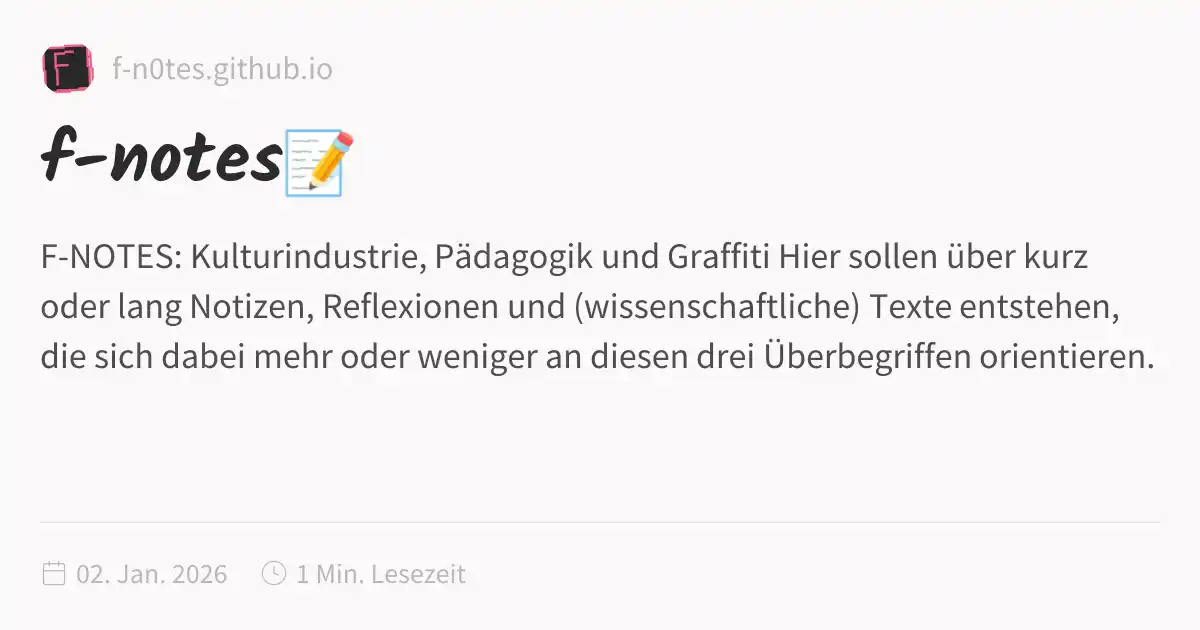
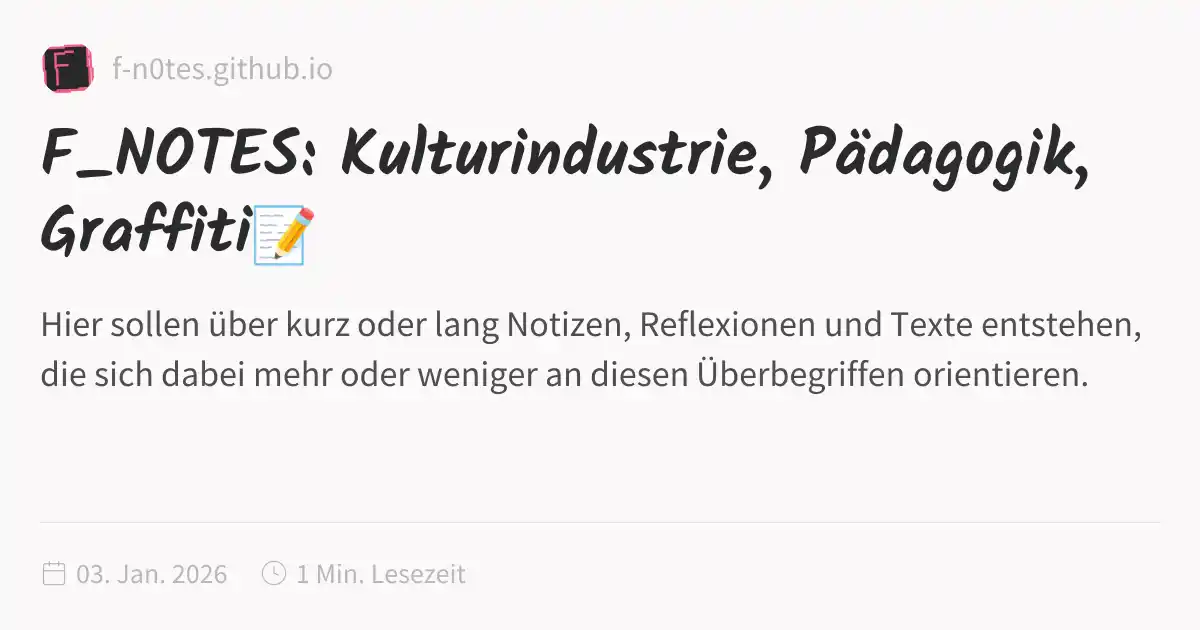
deploy: 53fa3e1e03e43d87d915ff147daec0a2459269f0

Changed region(s): [[0.0308, 0.181, 0.9558, 0.6333], [0.8942, 0.2714, 0.925, 0.3016]]

diff --git a/index.html b/index.html
@@ -1,5 +1,5 @@
 <!DOCTYPE html>
-<html lang="de" dir="ltr"><head><title>f-notes📝</title><meta charset="utf-8"/><link rel="preconnect" href="https://fonts.googleapis.com"/><link rel="preconnect" href="https://fonts.gstatic.com"/><link rel="stylesheet" href="https://fonts.googleapis.com/css2?family=Kalam:wght@400;700&amp;family=Source Sans Pro:ital,wght@0,400;0,600;1,400;1,600&amp;family=IBM Plex Mono:wght@400;600&amp;display=swap"/><link rel="preconnect" href="https://cdnjs.cloudflare.com" crossorigin="anonymous"/><meta name="viewport" content="width=device-width, initial-scale=1.0"/><meta name="og:site_name" content="f_notes"/><meta property="og:title" content="f-notes📝"/><meta property="og:type" content="website"/><meta name="twitter:card" content="summary_large_image"/><meta name="twitter:title" content="f-notes📝"/><meta name="twitter:description" content="F-NOTES: Kulturindustrie, Pädagogik und Graffiti Hier sollen über kurz oder lang Notizen, Reflexionen und (wissenschaftliche) Texte entstehen, die sich dabei mehr oder weniger an diesen drei Überbegriffen orientieren."/><meta property="og:description" content="F-NOTES: Kulturindustrie, Pädagogik und Graffiti Hier sollen über kurz oder lang Notizen, Reflexionen und (wissenschaftliche) Texte entstehen, die sich dabei mehr oder weniger an diesen drei Überbegriffen orientieren."/><meta property="og:image:alt" content="F-NOTES: Kulturindustrie, Pädagogik und Graffiti Hier sollen über kurz oder lang Notizen, Reflexionen und (wissenschaftliche) Texte entstehen, die sich dabei mehr oder weniger an diesen drei Überbegriffen orientieren."/><meta property="twitter:domain" content="f-n0tes.github.io"/><meta property="og:url" content="https://f-n0tes.github.io/index"/><meta property="twitter:url" content="https://f-n0tes.github.io/index"/><link rel="icon" href="./static/icon.png"/><meta name="description" content="F-NOTES: Kulturindustrie, Pädagogik und Graffiti Hier sollen über kurz oder lang Notizen, Reflexionen und (wissenschaftliche) Texte entstehen, die sich dabei mehr oder weniger an diesen drei Überbegriffen orientieren."/><meta name="generator" content="Quartz"/><link href="./index.css" rel="stylesheet" type="text/css" spa-preserve/><style>.expand-button {
+<html lang="de" dir="ltr"><head><title>F_NOTES: Kulturindustrie, Pädagogik, Graffiti📝</title><meta charset="utf-8"/><link rel="preconnect" href="https://fonts.googleapis.com"/><link rel="preconnect" href="https://fonts.gstatic.com"/><link rel="stylesheet" href="https://fonts.googleapis.com/css2?family=Kalam:wght@400;700&amp;family=Source Sans Pro:ital,wght@0,400;0,600;1,400;1,600&amp;family=IBM Plex Mono:wght@400;600&amp;display=swap"/><link rel="preconnect" href="https://cdnjs.cloudflare.com" crossorigin="anonymous"/><meta name="viewport" content="width=device-width, initial-scale=1.0"/><meta name="og:site_name" content="f_notes"/><meta property="og:title" content="F_NOTES: Kulturindustrie, Pädagogik, Graffiti📝"/><meta property="og:type" content="website"/><meta name="twitter:card" content="summary_large_image"/><meta name="twitter:title" content="F_NOTES: Kulturindustrie, Pädagogik, Graffiti📝"/><meta name="twitter:description" content="Hier sollen über kurz oder lang Notizen, Reflexionen und Texte entstehen, die sich dabei mehr oder weniger an diesen Überbegriffen orientieren."/><meta property="og:description" content="Hier sollen über kurz oder lang Notizen, Reflexionen und Texte entstehen, die sich dabei mehr oder weniger an diesen Überbegriffen orientieren."/><meta property="og:image:alt" content="Hier sollen über kurz oder lang Notizen, Reflexionen und Texte entstehen, die sich dabei mehr oder weniger an diesen Überbegriffen orientieren."/><meta property="twitter:domain" content="f-n0tes.github.io"/><meta property="og:url" content="https://f-n0tes.github.io/index"/><meta property="twitter:url" content="https://f-n0tes.github.io/index"/><link rel="icon" href="./static/icon.png"/><meta name="description" content="Hier sollen über kurz oder lang Notizen, Reflexionen und Texte entstehen, die sich dabei mehr oder weniger an diesen Überbegriffen orientieren."/><meta name="generator" content="Quartz"/><link href="./index.css" rel="stylesheet" type="text/css" spa-preserve/><style>.expand-button {
   position: absolute;
   display: flex;
   float: right;
@@ -116,10 +116,12 @@ pre:hover > .expand-button {
   padding: 0 12px;
   font-size: 14px;
 }
[1 lines of base64/hex data omitted]
-<h1 id="f-notes-kulturindustrie-pädagogik-und-graffiti">F-NOTES: Kulturindustrie, Pädagogik und Graffiti<a role="anchor" aria-hidden="true" tabindex="-1" data-no-popover="true" href="#f-notes-kulturindustrie-pädagogik-und-graffiti" class="internal"><svg width="18" height="18" viewBox="0 0 24 24" fill="none" stroke="currentColor" stroke-width="2" stroke-linecap="round" stroke-linejoin="round"><path d="M10 13a5 5 0 0 0 7.54.54l3-3a5 5 0 0 0-7.07-7.07l-1.72 1.71"></path><path d="M14 11a5 5 0 0 0-7.54-.54l-3 3a5 5 0 0 0 7.07 7.07l1.71-1.71"></path></svg></a></h1>
-<p>Hier sollen über kurz oder lang Notizen, Reflexionen und (wissenschaftliche) Texte entstehen, die sich dabei mehr oder weniger an diesen drei Überbegriffen orientieren.</p>
-<p>Der erste hier veröffentliche Text dient vor allem der Reflexion meines Kommentarspaltentourettes und der Einordnung meiner Kritik an der pro-palästinensischen Protestbewegung, auf die Jean-Philippe Kindler in dem Podcast <em>Hi Freaks</em> Bezug genommen hat: <a href="./Kulturindustrie/Podcasts/Glueckwunsch-du-willst-uns-fuer-dumm-verkaufen-(Hi-Freaks)" class="internal alias" data-slug="Kulturindustrie/Podcasts/Glueckwunsch-du-willst-uns-fuer-dumm-verkaufen-(Hi-Freaks)">Glückwunsch, du willst uns für dumm verkaufen (Hi Freaks)</a></p></article><hr/><div class="page-footer"></div></div><div class="right sidebar"><div class="graph"><h3>Graphansicht</h3><div class="graph-outer"><div class="graph-container" data-cfg="{&quot;drag&quot;:true,&quot;zoom&quot;:true,&quot;depth&quot;:1,&quot;scale&quot;:1.1,&quot;repelForce&quot;:0.5,&quot;centerForce&quot;:0.3,&quot;linkDistance&quot;:30,&quot;fontSize&quot;:0.6,&quot;opacityScale&quot;:1,&quot;showTags&quot;:true,&quot;removeTags&quot;:[],&quot;focusOnHover&quot;:false,&quot;enableRadial&quot;:false}"></div><button class="global-graph-icon" aria-label="Global Graph"><svg version="1.1" xmlns="http://www.w3.org/2000/svg" xmlns:xlink="http://www.w3.org/1999/xlink" x="0px" y="0px" viewBox="0 0 55 55" fill="currentColor" xml:space="preserve"><path d="M49,0c-3.309,0-6,2.691-6,6c0,1.035,0.263,2.009,0.726,2.86l-9.829,9.829C32.542,17.634,30.846,17,29,17
[1 lines of base64/hex data omitted]
+<p>Hier sollen über kurz oder lang Notizen, Reflexionen und Texte entstehen, die sich dabei mehr oder weniger an diesen Überbegriffen orientieren. Ein konkretes Konzept liegt dabei nicht vor, thematisch werden sich die einzelnen Beiträge jedoch im sozial- und erziehungswissenschaftlichen sowie im bildungstheoretischen Feld bewegen.</p>
+<p>Der erste hier veröffentliche Text dient vor allem der Reflexion meines Kommentarspaltentourettes und der Einordnung meiner Kritik an der pro-palästinensischen Protestbewegung, auf die Jean-Philippe Kindler in dem Podcast <em>Hi Freaks</em> Bezug genommen hat:</p>
+<ul>
+<li><a href="./Kulturindustrie/Podcasts/Glueckwunsch-du-willst-uns-fuer-dumm-verkaufen-(Hi-Freaks)" class="internal alias" data-slug="Kulturindustrie/Podcasts/Glueckwunsch-du-willst-uns-fuer-dumm-verkaufen-(Hi-Freaks)">Glückwunsch, du willst uns für dumm verkaufen (Hi Freaks)</a></li>
+</ul></article><hr/><div class="page-footer"></div></div><div class="right sidebar"><div class="graph"><h3>Graphansicht</h3><div class="graph-outer"><div class="graph-container" data-cfg="{&quot;drag&quot;:true,&quot;zoom&quot;:true,&quot;depth&quot;:1,&quot;scale&quot;:1.1,&quot;repelForce&quot;:0.5,&quot;centerForce&quot;:0.3,&quot;linkDistance&quot;:30,&quot;fontSize&quot;:0.6,&quot;opacityScale&quot;:1,&quot;showTags&quot;:true,&quot;removeTags&quot;:[],&quot;focusOnHover&quot;:false,&quot;enableRadial&quot;:false}"></div><button class="global-graph-icon" aria-label="Global Graph"><svg version="1.1" xmlns="http://www.w3.org/2000/svg" xmlns:xlink="http://www.w3.org/1999/xlink" x="0px" y="0px" viewBox="0 0 55 55" fill="currentColor" xml:space="preserve"><path d="M49,0c-3.309,0-6,2.691-6,6c0,1.035,0.263,2.009,0.726,2.86l-9.829,9.829C32.542,17.634,30.846,17,29,17
                 s-3.542,0.634-4.898,1.688l-7.669-7.669C16.785,10.424,17,9.74,17,9c0-2.206-1.794-4-4-4S9,6.794,9,9s1.794,4,4,4
                 c0.74,0,1.424-0.215,2.019-0.567l7.669,7.669C21.634,21.458,21,23.154,21,25s0.634,3.542,1.688,4.897L10.024,42.562
                 C8.958,41.595,7.549,41,6,41c-3.309,0-6,2.691-6,6s2.691,6,6,6s6-2.691,6-6c0-1.035-0.263-2.009-0.726-2.86l12.829-12.829

diff --git a/Kulturindustrie/Podcasts/Glueckwunsch-du-willst-uns-fuer-dumm-verkaufen-(Hi-Freaks).html b/Kulturindustrie/Podcasts/Glueckwunsch-du-willst-uns-fuer-dumm-verkaufen-(Hi-Freaks).html
@@ -227,6 +227,6 @@ pre:hover > .expand-button {
                 C46.042,11.405,47.451,12,49,12c3.309,0,6-2.691,6-6S52.309,0,49,0z M11,9c0-1.103,0.897-2,2-2s2,0.897,2,2s-0.897,2-2,2
                 S11,10.103,11,9z M6,51c-2.206,0-4-1.794-4-4s1.794-4,4-4s4,1.794,4,4S8.206,51,6,51z M33,49c0,2.206-1.794,4-4,4s-4-1.794-4-4
                 s1.794-4,4-4S33,46.794,33,49z M29,31c-3.309,0-6-2.691-6-6s2.691-6,6-6s6,2.691,6,6S32.309,31,29,31z M47,41c0,1.103-0.897,2-2,2
-                s-2-0.897-2-2s0.897-2,2-2S47,39.897,47,41z M49,10c-2.206,0-4-1.794-4-4s1.794-4,4-4s4,1.794,4,4S51.206,10,49,10z"></path></svg></button></div><div class="global-graph-outer"><div class="global-graph-container" data-cfg="{&quot;drag&quot;:true,&quot;zoom&quot;:true,&quot;depth&quot;:-1,&quot;scale&quot;:0.9,&quot;repelForce&quot;:0.5,&quot;centerForce&quot;:0.2,&quot;linkDistance&quot;:30,&quot;fontSize&quot;:0.6,&quot;opacityScale&quot;:1,&quot;showTags&quot;:true,&quot;removeTags&quot;:[],&quot;focusOnHover&quot;:true,&quot;enableRadial&quot;:true}"></div></div></div><div class="toc desktop-only"><button type="button" class="toc-header" aria-controls="toc-0" aria-expanded="true"><h3>Inhaltsverzeichnis</h3><svg xmlns="http://www.w3.org/2000/svg" width="24" height="24" viewBox="0 0 24 24" fill="none" stroke="currentColor" stroke-width="2" stroke-linecap="round" stroke-linejoin="round" class="fold"><polyline points="6 9 12 15 18 9"></polyline></svg></button><ul id="list-1" class="toc-content overflow"><li class="depth-0"><a href="#vorweg" data-for="vorweg">Vorweg</a></li><li class="depth-0"><a href="#rekonstruktion-und-einordnung" data-for="rekonstruktion-und-einordnung">Rekonstruktion und Einordnung</a></li><li class="depth-1"><a href="#wieso-kann-das-nicht-einfach-nebeneinanderstehen" data-for="wieso-kann-das-nicht-einfach-nebeneinanderstehen">Wieso kann das nicht einfach nebeneinanderstehen?</a></li><li class="depth-1"><a href="#antisemitismus-der-sogenannte-pro-palästinensische-aktivismus-und-ideologiekritik" data-for="antisemitismus-der-sogenannte-pro-palästinensische-aktivismus-und-ideologiekritik">Antisemitismus, der sogenannte pro-palästinensische Aktivismus und Ideologiekritik</a></li><li class="depth-0"><a href="#distinktionsbedürfnis-und-überakademisierte-sprache" data-for="distinktionsbedürfnis-und-überakademisierte-sprache">Distinktionsbedürfnis und „überakademisierte Sprache“</a></li><li class="depth-0"><a href="#zusammengefasst" data-for="zusammengefasst">Zusammengefasst</a></li><li class="depth-1"><a href="#die-überakademisierten-kommentare" data-for="die-überakademisierten-kommentare">Die „überakademisierten“ Kommentare</a></li><li class="overflow-end"></li></ul></div><div class="backlinks"><h3>Backlinks</h3><ul id="list-2" class="overflow"><li><a href="../../" class="internal">f-notes</a></li><li class="overflow-end"></li></ul></div></div><footer class><p>Erstellt mit <a href="https://quartz.jzhao.xyz/">Quartz v4.5.2</a> © 2026</p><ul><li><a href="https://github.com/jackyzha0/quartz">GitHub</a></li><li><a href="https://discord.gg/cRFFHYye7t">Discord Community</a></li></ul></footer></div></div></body><script type="application/javascript">function n(){let t=this.parentElement;t.classList.toggle("is-collapsed");let e=t.getElementsByClassName("callout-content")[0];if(!e)return;let l=t.classList.contains("is-collapsed");e.style.gridTemplateRows=l?"0fr":"1fr"}function c(){let t=document.getElementsByClassName("callout is-collapsible");for(let e of t){let l=e.getElementsByClassName("callout-title")[0],s=e.getElementsByClassName("callout-content")[0];if(!l||!s)continue;l.addEventListener("click",n),window.addCleanup(()=>l.removeEventListener("click",n));let o=e.classList.contains("is-collapsed");s.style.gridTemplateRows=o?"0fr":"1fr"}}document.addEventListener("nav",c);
+                s-2-0.897-2-2s0.897-2,2-2S47,39.897,47,41z M49,10c-2.206,0-4-1.794-4-4s1.794-4,4-4s4,1.794,4,4S51.206,10,49,10z"></path></svg></button></div><div class="global-graph-outer"><div class="global-graph-container" data-cfg="{&quot;drag&quot;:true,&quot;zoom&quot;:true,&quot;depth&quot;:-1,&quot;scale&quot;:0.9,&quot;repelForce&quot;:0.5,&quot;centerForce&quot;:0.2,&quot;linkDistance&quot;:30,&quot;fontSize&quot;:0.6,&quot;opacityScale&quot;:1,&quot;showTags&quot;:true,&quot;removeTags&quot;:[],&quot;focusOnHover&quot;:true,&quot;enableRadial&quot;:true}"></div></div></div><div class="toc desktop-only"><button type="button" class="toc-header" aria-controls="toc-0" aria-expanded="true"><h3>Inhaltsverzeichnis</h3><svg xmlns="http://www.w3.org/2000/svg" width="24" height="24" viewBox="0 0 24 24" fill="none" stroke="currentColor" stroke-width="2" stroke-linecap="round" stroke-linejoin="round" class="fold"><polyline points="6 9 12 15 18 9"></polyline></svg></button><ul id="list-1" class="toc-content overflow"><li class="depth-0"><a href="#vorweg" data-for="vorweg">Vorweg</a></li><li class="depth-0"><a href="#rekonstruktion-und-einordnung" data-for="rekonstruktion-und-einordnung">Rekonstruktion und Einordnung</a></li><li class="depth-1"><a href="#wieso-kann-das-nicht-einfach-nebeneinanderstehen" data-for="wieso-kann-das-nicht-einfach-nebeneinanderstehen">Wieso kann das nicht einfach nebeneinanderstehen?</a></li><li class="depth-1"><a href="#antisemitismus-der-sogenannte-pro-palästinensische-aktivismus-und-ideologiekritik" data-for="antisemitismus-der-sogenannte-pro-palästinensische-aktivismus-und-ideologiekritik">Antisemitismus, der sogenannte pro-palästinensische Aktivismus und Ideologiekritik</a></li><li class="depth-0"><a href="#distinktionsbedürfnis-und-überakademisierte-sprache" data-for="distinktionsbedürfnis-und-überakademisierte-sprache">Distinktionsbedürfnis und „überakademisierte Sprache“</a></li><li class="depth-0"><a href="#zusammengefasst" data-for="zusammengefasst">Zusammengefasst</a></li><li class="depth-1"><a href="#die-überakademisierten-kommentare" data-for="die-überakademisierten-kommentare">Die „überakademisierten“ Kommentare</a></li><li class="overflow-end"></li></ul></div><div class="backlinks"><h3>Backlinks</h3><ul id="list-2" class="overflow"><li><a href="../../" class="internal">F_NOTES: Kulturindustrie, Pädagogik, Graffiti</a></li><li class="overflow-end"></li></ul></div></div><footer class><p>Erstellt mit <a href="https://quartz.jzhao.xyz/">Quartz v4.5.2</a> © 2026</p><ul><li><a href="https://github.com/jackyzha0/quartz">GitHub</a></li><li><a href="https://discord.gg/cRFFHYye7t">Discord Community</a></li></ul></footer></div></div></body><script type="application/javascript">function n(){let t=this.parentElement;t.classList.toggle("is-collapsed");let e=t.getElementsByClassName("callout-content")[0];if(!e)return;let l=t.classList.contains("is-collapsed");e.style.gridTemplateRows=l?"0fr":"1fr"}function c(){let t=document.getElementsByClassName("callout is-collapsible");for(let e of t){let l=e.getElementsByClassName("callout-title")[0],s=e.getElementsByClassName("callout-content")[0];if(!l||!s)continue;l.addEventListener("click",n),window.addCleanup(()=>l.removeEventListener("click",n));let o=e.classList.contains("is-collapsed");s.style.gridTemplateRows=o?"0fr":"1fr"}}document.addEventListener("nav",c);
 </script><script type="module">function f(i,e){if(!i)return;function r(o){o.target===this&&(o.preventDefault(),o.stopPropagation(),e())}function t(o){o.key.startsWith("Esc")&&(o.preventDefault(),e())}i?.addEventListener("click",r),window.addCleanup(()=>i?.removeEventListener("click",r)),document.addEventListener("keydown",t),window.addCleanup(()=>document.removeEventListener("keydown",t))}function y(i){for(;i.firstChild;)i.removeChild(i.firstChild)}var h=class{constructor(e,r){this.container=e;this.content=r;this.setupEventListeners(),this.setupNavigationControls(),this.resetTransform()}isDragging=!1;startPan={x:0,y:0};currentPan={x:0,y:0};scale=1;MIN_SCALE=.5;MAX_SCALE=3;cleanups=[];setupEventListeners(){let e=this.onMouseDown.bind(this),r=this.onMouseMove.bind(this),t=this.onMouseUp.bind(this),o=this.resetTransform.bind(this);this.container.addEventListener("mousedown",e),document.addEventListener("mousemove",r),document.addEventListener("mouseup",t),window.addEventListener("resize",o),this.cleanups.push(()=>this.container.removeEventListener("mousedown",e),()=>document.removeEventListener("mousemove",r),()=>document.removeEventListener("mouseup",t),()=>window.removeEventListener("resize",o))}cleanup(){for(let e of this.cleanups)e()}setupNavigationControls(){let e=document.createElement("div");e.className="mermaid-controls";let r=this.createButton("+",()=>this.zoom(.1)),t=this.createButton("-",()=>this.zoom(-.1)),o=this.createButton("Reset",()=>this.resetTransform());e.appendChild(t),e.appendChild(o),e.appendChild(r),this.container.appendChild(e)}createButton(e,r){let t=document.createElement("button");return t.textContent=e,t.className="mermaid-control-button",t.addEventListener("click",r),window.addCleanup(()=>t.removeEventListener("click",r)),t}onMouseDown(e){e.button===0&&(this.isDragging=!0,this.startPan={x:e.clientX-this.currentPan.x,y:e.clientY-this.currentPan.y},this.container.style.cursor="grabbing")}onMouseMove(e){this.isDragging&&(e.preventDefault(),this.currentPan={x:e.clientX-this.startPan.x,y:e.clientY-this.startPan.y},this.updateTransform())}onMouseUp(){this.isDragging=!1,this.container.style.cursor="grab"}zoom(e){let r=Math.min(Math.max(this.scale+e,this.MIN_SCALE),this.MAX_SCALE),t=this.content.getBoundingClientRect(),o=t.width/2,n=t.height/2,c=r-this.scale;this.currentPan.x-=o*c,this.currentPan.y-=n*c,this.scale=r,this.updateTransform()}updateTransform(){this.content.style.transform=`translate(${this.currentPan.x}px, ${this.currentPan.y}px) scale(${this.scale})`}resetTransform(){this.scale=1;let e=this.content.querySelector("svg");this.currentPan={x:e.getBoundingClientRect().width/2,y:e.getBoundingClientRect().height/2},this.updateTransform()}},C=["--secondary","--tertiary","--gray","--light","--lightgray","--highlight","--dark","--darkgray","--codeFont"],E;document.addEventListener("nav",async()=>{let e=document.querySelector(".center").querySelectorAll("code.mermaid");if(e.length===0)return;E||=await import("https://cdnjs.cloudflare.com/ajax/libs/mermaid/11.4.0/mermaid.esm.min.mjs");let r=E.default,t=new WeakMap;for(let n of e)t.set(n,n.innerText);async function o(){for(let s of e){s.removeAttribute("data-processed");let a=t.get(s);a&&(s.innerHTML=a)}let n=C.reduce((s,a)=>(s[a]=window.getComputedStyle(document.documentElement).getPropertyValue(a),s),{}),c=document.documentElement.getAttribute("saved-theme")==="dark";r.initialize({startOnLoad:!1,securityLevel:"loose",theme:c?"dark":"base",themeVariables:{fontFamily:n["--codeFont"],primaryColor:n["--light"],primaryTextColor:n["--darkgray"],primaryBorderColor:n["--tertiary"],lineColor:n["--darkgray"],secondaryColor:n["--secondary"],tertiaryColor:n["--tertiary"],clusterBkg:n["--light"],edgeLabelBackground:n["--highlight"]}}),await r.run({nodes:e})}await o(),document.addEventListener("themechange",o),window.addCleanup(()=>document.removeEventListener("themechange",o));for(let n=0;n<e.length;n++){let v=function(){let g=l.querySelector("#mermaid-space"),m=l.querySelector(".mermaid-content");if(!m)return;y(m);let w=c.querySelector("svg").cloneNode(!0);m.appendChild(w),l.classList.add("active"),g.style.cursor="grab",u=new h(g,m)},M=function(){l.classList.remove("active"),u?.cleanup(),u=null},c=e[n],s=c.parentElement,a=s.querySelector(".clipboard-button"),d=s.querySelector(".expand-button"),p=window.getComputedStyle(a),L=a.offsetWidth+parseFloat(p.marginLeft||"0")+parseFloat(p.marginRight||"0");d.style.right=`calc(${L}px + 0.3rem)`,s.prepend(d);let l=s.querySelector("#mermaid-container");if(!l)return;let u=null;d.addEventListener("click",v),f(l,M),window.addCleanup(()=>{u?.cleanup(),d.removeEventListener("click",v)})}});
 </script><script src="https://cdn.jsdelivr.net/npm/katex@0.16.11/dist/contrib/copy-tex.min.js" type="application/javascript"></script><script src="../../postscript.js" type="module"></script></html>
